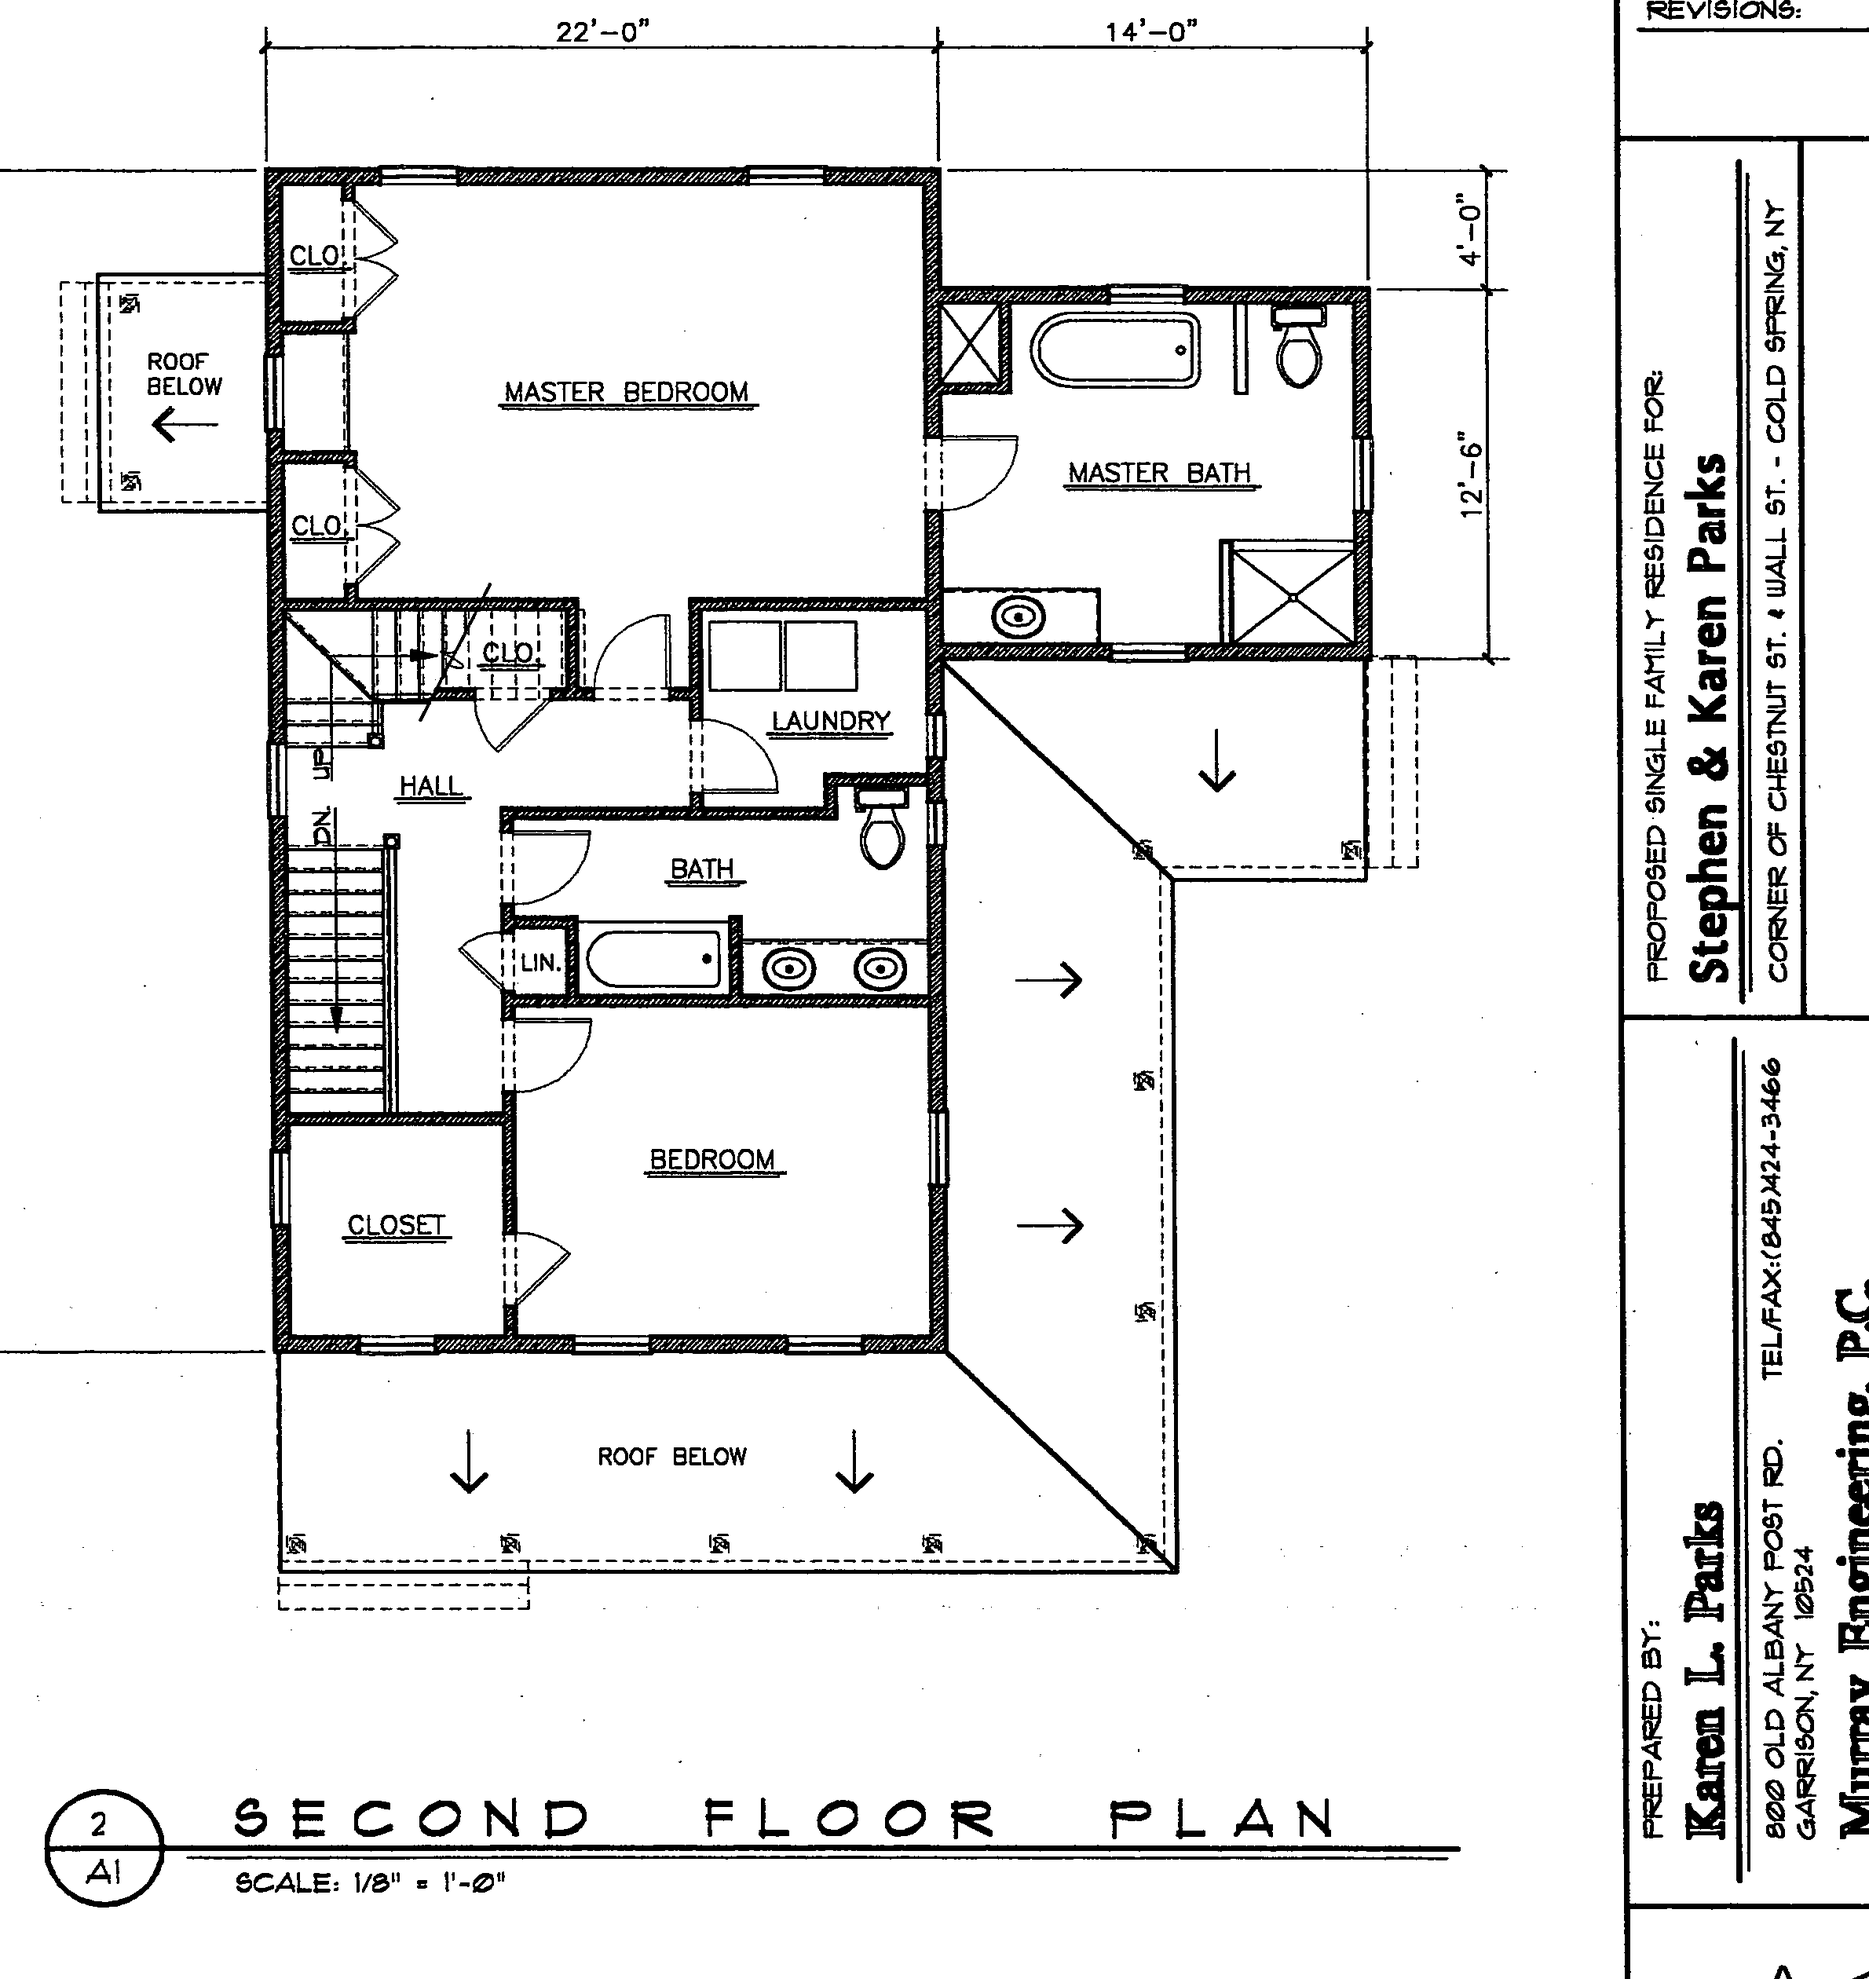
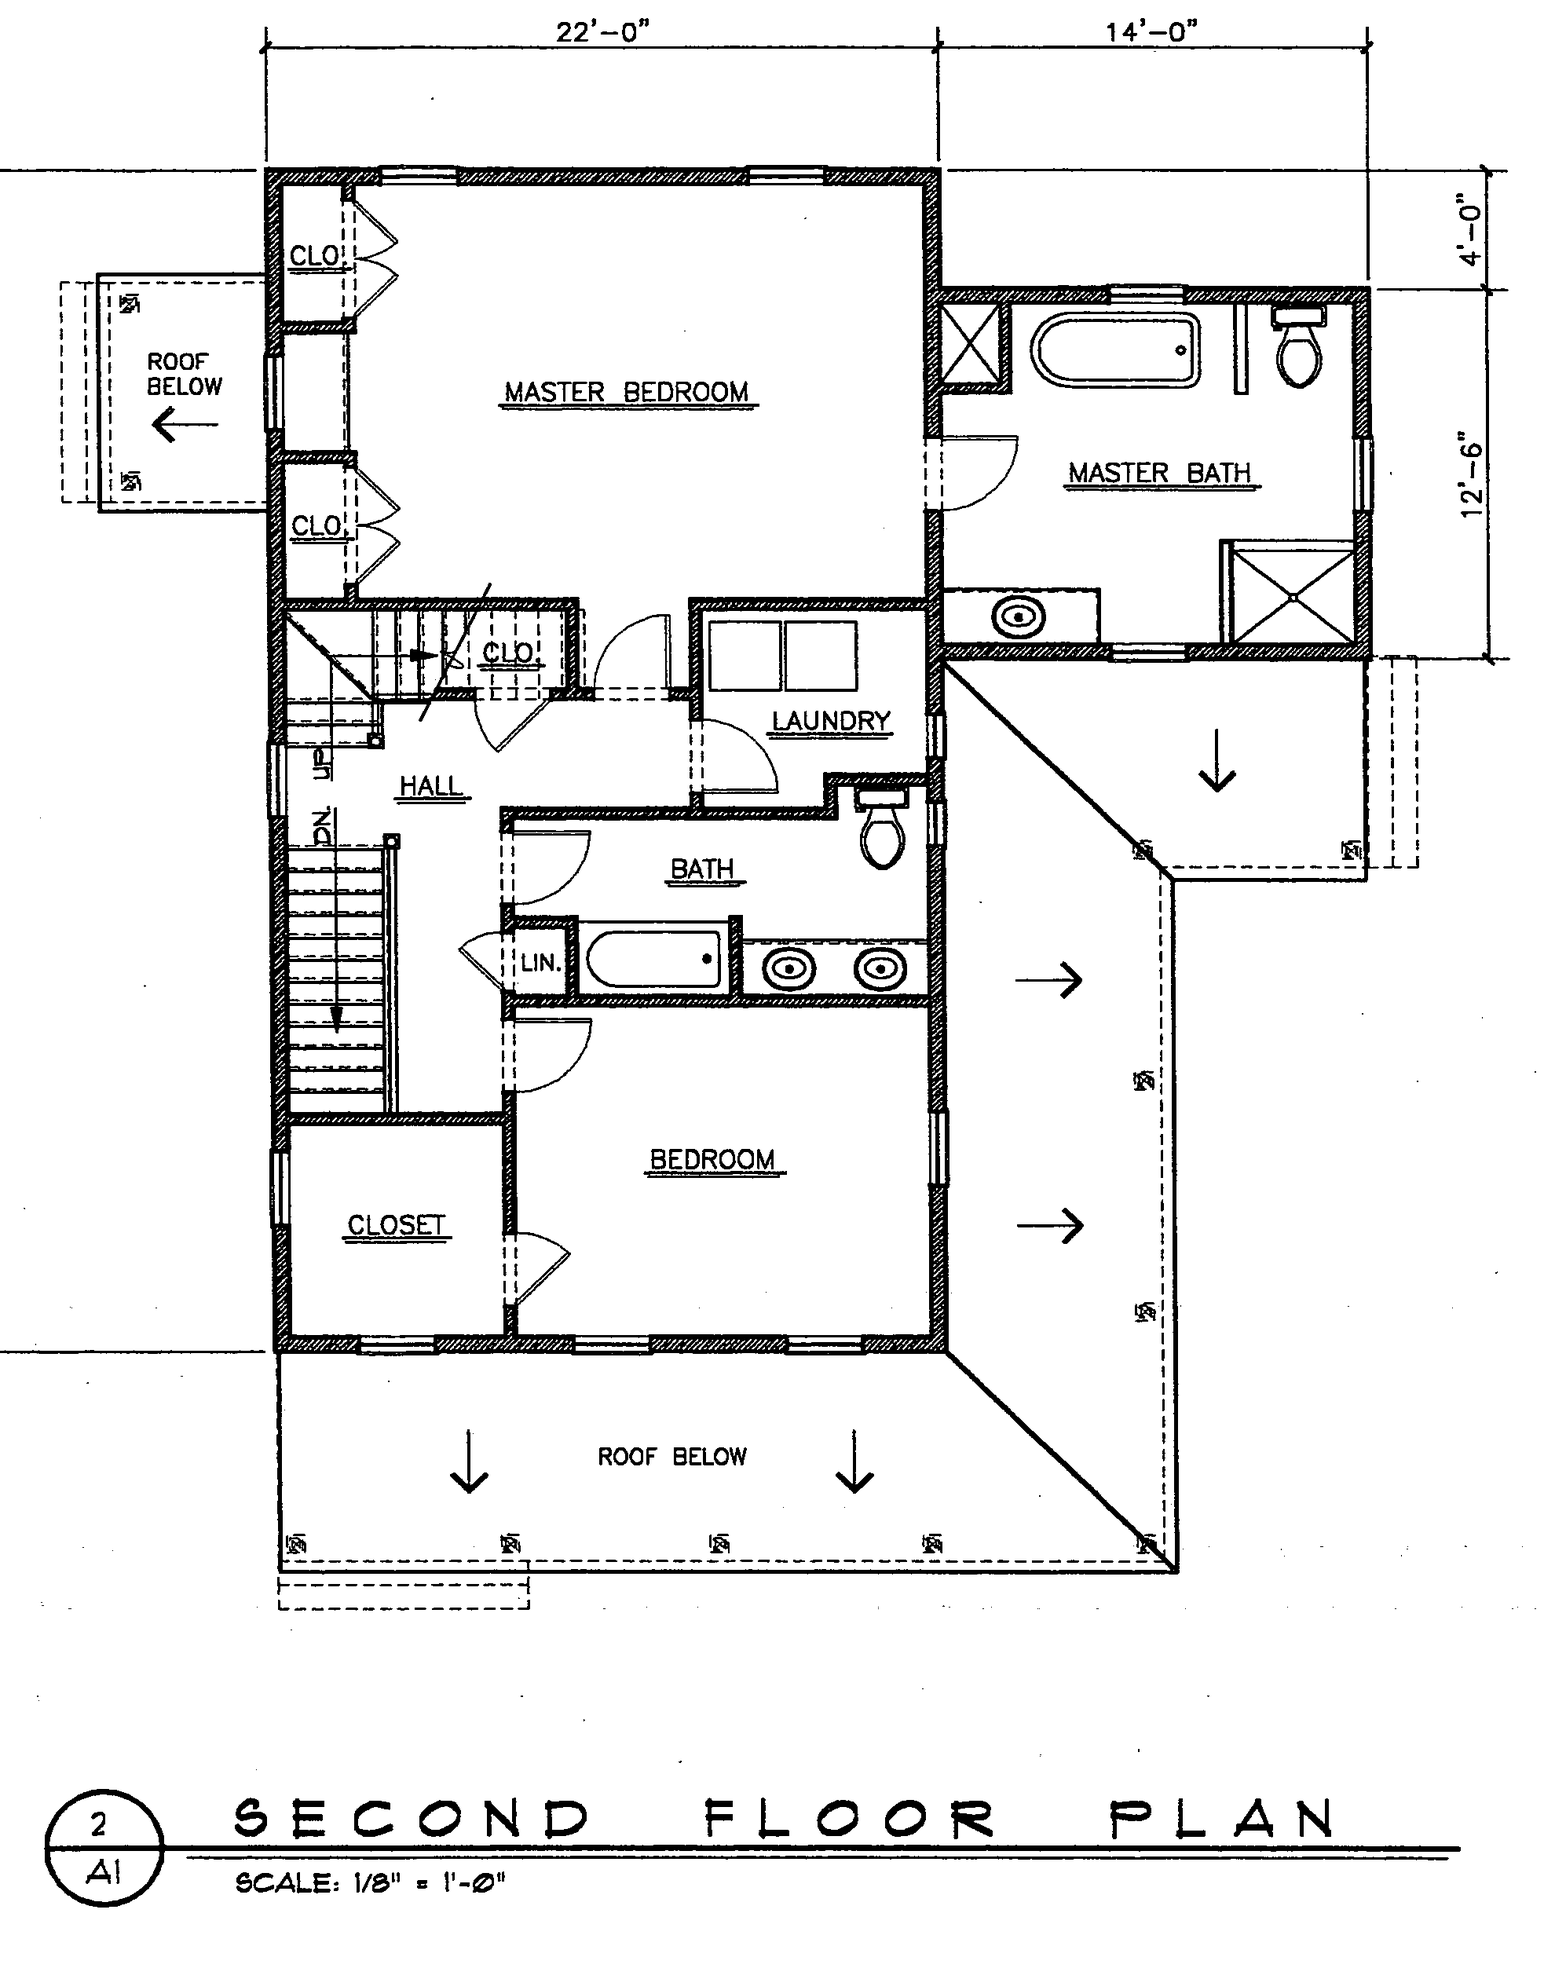
Allow floor-level item placement

diff --git a/src/app/home/layout/page.tsx b/src/app/home/layout/page.tsx
@@ -48,14 +48,15 @@ export default function HomeLayoutPage() {
   }, [floorPlans, rooms]);
 
   const activeFloor = measuredFloors.find(floor => floor.name === activeFloorName) ?? measuredFloors[0];
-  const unplacedItems = items.filter(item => item.roomId === null);
+  const unplacedItems = items.filter(item => item.roomId === null && item.floorPlanId === null);
 
-  const moveItem = async (item: RoomItem, roomId: number | null, planXFt: number, planYFt: number) => {
+  const moveItem = async (item: RoomItem, floorPlanId: number, roomId: number | null, planXFt: number, planYFt: number) => {
     await fetch('/api/room-items', {
       method: 'PATCH',
       headers: { 'Content-Type': 'application/json' },
       body: JSON.stringify({
         id: item.id,
+        floorPlanId: floorPlanId > 0 ? floorPlanId : null,
         roomId,
         planXFt: roundToQuarter(planXFt),
         planYFt: roundToQuarter(planYFt),
@@ -367,11 +368,14 @@ function MeasuredFloorPlan({
   overlayVisible: boolean;
   overlayOpacity: number;
   overlayFit: OverlayFit;
-  onMoveItem: (item: RoomItem, roomId: number | null, planXFt: number, planYFt: number) => void;
+  onMoveItem: (item: RoomItem, floorPlanId: number, roomId: number | null, planXFt: number, planYFt: number) => void;
 }) {
   const floorRooms = rooms.filter(room => floorForRoom(room, floorPlans)?.name === floorPlan.name);
   const roomRects = floorRooms.map(room => ({ room, rect: planRectForRoom(room) }));
-  const floorItems = items.filter(item => item.roomId && floorRooms.some(room => room.id === item.roomId));
+  const floorItems = items.filter(item => {
+    if (item.floorPlanId === floorPlan.id) return true;
+    return item.floorPlanId === null && item.roomId !== null && floorRooms.some(room => room.id === item.roomId);
+  });
   const gridLinesX = gridLines(floorPlan.widthFt);
   const gridLinesY = gridLines(floorPlan.depthFt);
   const overlaySrc = toBlueprintImageSrc(floorPlan.blueprintImagePath);
@@ -405,10 +409,13 @@ function MeasuredFloorPlan({
             if (!item) return;
 
             const bounds = event.currentTarget.getBoundingClientRect();
-            const planXFt = clamp(((event.clientX - bounds.left) / bounds.width) * floorPlan.widthFt, 0, floorPlan.widthFt);
-            const planYFt = clamp(((event.clientY - bounds.top) / bounds.height) * floorPlan.depthFt, 0, floorPlan.depthFt);
+            const footprint = itemFootprint(item);
+            const rawXFt = ((event.clientX - bounds.left) / bounds.width) * floorPlan.widthFt;
+            const rawYFt = ((event.clientY - bounds.top) / bounds.height) * floorPlan.depthFt;
+            const planXFt = clamp(rawXFt, 0, Math.max(0, floorPlan.widthFt - footprint.widthFt));
+            const planYFt = clamp(rawYFt, 0, Math.max(0, floorPlan.depthFt - footprint.depthFt));
             const target = roomRects.find(({ rect }) => containsPoint(rect, planXFt, planYFt));
-            onMoveItem(item, target?.room.id ?? item.roomId ?? null, planXFt, planYFt);
+            onMoveItem(item, floorPlan.id, target?.room.id ?? null, planXFt, planYFt);
           }}
           style={{
             position: 'relative',
@@ -472,13 +479,16 @@ function MeasuredFloorPlan({
           ))}
           {floorItems.map((item, index) => {
             const room = floorRooms.find(entry => entry.id === item.roomId);
-            if (!room) return null;
-            const rect = planRectForRoom(room);
+            const rect = room ? planRectForRoom(room) : null;
             const footprint = itemFootprint(item);
-            const defaultX = rect.x + 1 + (index % 2) * Math.min(footprint.widthFt + 1, Math.max(rect.width / 3, 2));
-            const defaultY = rect.y + 1 + Math.floor(index / 2) * Math.min(footprint.depthFt + 1, Math.max(rect.depth / 4, 2));
-            const x = clamp(item.planXFt ?? defaultX, rect.x, Math.max(rect.x, rect.x + rect.width - footprint.widthFt));
-            const y = clamp(item.planYFt ?? defaultY, rect.y, Math.max(rect.y, rect.y + rect.depth - footprint.depthFt));
+            const defaultX = rect
+              ? rect.x + 1 + (index % 2) * Math.min(footprint.widthFt + 1, Math.max(rect.width / 3, 2))
+              : 2 + (index % 4) * 3;
+            const defaultY = rect
+              ? rect.y + 1 + Math.floor(index / 2) * Math.min(footprint.depthFt + 1, Math.max(rect.depth / 4, 2))
+              : 2 + Math.floor(index / 4) * 3;
+            const x = clamp(item.planXFt ?? defaultX, 0, Math.max(0, floorPlan.widthFt - footprint.widthFt));
+            const y = clamp(item.planYFt ?? defaultY, 0, Math.max(0, floorPlan.depthFt - footprint.depthFt));
             return (
               <PlacedItem
                 key={item.id}
@@ -515,9 +525,10 @@ function RoomZone({ room, rect, floorPlan }: { room: Room; rect: PlanRect; floor
         width: `${(rect.width / floorPlan.widthFt) * 100}%`,
         height: `${(rect.depth / floorPlan.depthFt) * 100}%`,
         border: '2px solid rgba(92,86,72,0.48)',
-        background: 'rgba(255,255,255,0.58)',
+        background: 'rgba(255,255,255,0.14)',
         boxShadow: 'inset 0 0 0 1px rgba(255,255,255,0.72)',
         overflow: 'hidden',
+        pointerEvents: 'none',
         zIndex: 2,
       }}
     >

diff --git a/src/app/api/room-items/route.ts b/src/app/api/room-items/route.ts
@@ -31,6 +31,7 @@ export async function POST(request: Request) {
 
   const insert = {
     room_id: body.roomId || null,
+    floor_plan_id: body.floorPlanId ?? null,
     belonging_id: body.belongingId || null,
     item_name: body.itemName || 'New Item',
     item_source: body.itemSource || 'planned_purchase',
@@ -77,6 +78,7 @@ export async function PATCH(request: Request) {
 
   const update: Record<string, unknown> = {};
   if ('roomId' in rest) update.room_id = rest.roomId;
+  if ('floorPlanId' in rest) update.floor_plan_id = rest.floorPlanId;
   if ('belongingId' in rest) update.belonging_id = rest.belongingId;
   if ('itemName' in rest) update.item_name = rest.itemName;
   if ('itemSource' in rest) update.item_source = rest.itemSource;
@@ -131,6 +133,7 @@ function normalise(row: Record<string, unknown>) {
   return {
     id: row.id,
     roomId: row.room_id ?? row.roomId ?? null,
+    floorPlanId: row.floor_plan_id ?? row.floorPlanId ?? null,
     belongingId: row.belonging_id ?? row.belongingId ?? null,
     itemName: row.item_name ?? row.itemName,
     itemSource: row.item_source ?? row.itemSource ?? 'planned_purchase',
@@ -158,11 +161,12 @@ function nullableNumber(value: unknown) {
 }
 
 function isMissingMeasuredColumnError(error: { code?: string; message?: string }) {
-  return error.code === '42703' || error.code === 'PGRST204' || /width_in|depth_in|height_in|plan_|rotation_deg/i.test(error.message ?? '');
+  return error.code === '42703' || error.code === 'PGRST204' || /floor_plan_id|width_in|depth_in|height_in|plan_|rotation_deg/i.test(error.message ?? '');
 }
 
 function stripMeasuredItemFields(update: Record<string, unknown>) {
   const legacyUpdate = { ...update };
+  delete legacyUpdate.floor_plan_id;
   delete legacyUpdate.width_in;
   delete legacyUpdate.depth_in;
   delete legacyUpdate.height_in;

diff --git a/src/__tests__/hqModel.test.ts b/src/__tests__/hqModel.test.ts
@@ -167,8 +167,8 @@ const rooms: Room[] = [
 ];
 
 const roomItems: RoomItem[] = [
-  { id: 1, roomId: 1, belongingId: 1, itemName: 'Table', itemSource: 'existing_belonging', status: 'placed', dimensions: null, notes: null, layoutX: 1, layoutY: 1, layoutW: 2, layoutH: 2, widthIn: null, depthIn: null, heightIn: null, planXFt: null, planYFt: null, rotationDeg: null, sortIndex: 0 },
-  { id: 2, roomId: null, belongingId: null, itemName: 'Sofa', itemSource: 'planned_purchase', status: 'planned', dimensions: null, notes: null, layoutX: null, layoutY: null, layoutW: null, layoutH: null, widthIn: null, depthIn: null, heightIn: null, planXFt: null, planYFt: null, rotationDeg: null, sortIndex: 1 },
+  { id: 1, roomId: 1, floorPlanId: null, belongingId: 1, itemName: 'Table', itemSource: 'existing_belonging', status: 'placed', dimensions: null, notes: null, layoutX: 1, layoutY: 1, layoutW: 2, layoutH: 2, widthIn: null, depthIn: null, heightIn: null, planXFt: null, planYFt: null, rotationDeg: null, sortIndex: 0 },
+  { id: 2, roomId: null, floorPlanId: null, belongingId: null, itemName: 'Sofa', itemSource: 'planned_purchase', status: 'planned', dimensions: null, notes: null, layoutX: null, layoutY: null, layoutW: null, layoutH: null, widthIn: null, depthIn: null, heightIn: null, planXFt: null, planYFt: null, rotationDeg: null, sortIndex: 1 },
 ];
 
 const projects: HomeProject[] = [

diff --git a/src/__tests__/api/roomItems.test.ts b/src/__tests__/api/roomItems.test.ts
@@ -15,6 +15,7 @@ import { DELETE, GET, PATCH, POST } from '@/app/api/room-items/route';
 const mockRoomItem = {
   id: 7,
   room_id: 1,
+  floor_plan_id: 3,
   belonging_id: 2,
   item_name: 'Sectional Sofa',
   item_source: 'existing_belonging',
@@ -36,6 +37,7 @@ describe('GET /api/room-items', () => {
     const res = await GET(new Request('http://localhost/api/room-items'));
     const body = await res.json();
     expect(body[0].itemName).toBe('Sectional Sofa');
+    expect(body[0].floorPlanId).toBe(3);
   });
 });
 

diff --git a/src/lib/types.ts b/src/lib/types.ts
@@ -185,6 +185,7 @@ export interface Room {
 export interface RoomItem {
   id: number;
   roomId: number | null;
+  floorPlanId: number | null;
   belongingId: number | null;
   itemName: string;
   itemSource: 'existing_belonging' | 'planned_purchase';

diff --git a/README.md b/README.md
@@ -182,6 +182,7 @@ The repo includes the legacy base schema and migration files plus the newer home
 - [supabase-task-blocked-status.sql](supabase-task-blocked-status.sql) — expands move and planning task statuses to include `Blocked`
 - [supabase-measured-layout.sql](supabase-measured-layout.sql) — adds measured floor-plan, room, and room-item layout fields
 - [supabase-blueprint-overlays.sql](supabase-blueprint-overlays.sql) — updates existing measured floor plans to 50x50 canvases and bundled blueprint overlay asset paths
+- [supabase-floor-item-placement.sql](supabase-floor-item-placement.sql) — links room items directly to floor plans so items can be placed anywhere on a measured floor canvas
 - [supabase-rls.sql](supabase-rls.sql) — enables RLS + authenticated-only policies on the app tables
 
 ## Running Locally
@@ -287,11 +288,12 @@ src/
 5. To enable database-level document reuse safeguards and clean up existing duplicate document URLs, run `supabase-document-dedupe.sql` after `supabase-home-planning.sql`.
 6. To allow blocked task tracking, run `supabase-task-blocked-status.sql` after `supabase-home-planning.sql`.
 7. To enable the measured home layout planner and blueprint overlays on an existing database, run `supabase-measured-layout.sql`, then `supabase-blueprint-overlays.sql`.
+8. To allow room items to be placed anywhere on a measured floor canvas, run `supabase-floor-item-placement.sql`.
 
 ## Current Limitations
 
 - Documents are intended as external links, not uploaded private files
-- Room planning and visual layout now support measured floor canvases, bundled blueprint overlays, and draggable item placement, but they are still a simplified planner rather than a full CAD/floorplanner replacement
+- Room planning and visual layout now support measured floor canvases, bundled blueprint overlays, and floor-level draggable item placement, but they are still a simplified planner rather than a full CAD/floorplanner replacement
 - Drive planning does not currently enforce true seat/cargo constraints; it is a flexible planning board rather than a hard validator
 - The app can seed planning structure from organized document sets, but document-derived updates still rely on review logic rather than full OCR / workflow automation
 - Production build verification may require a non-sandboxed environment because Turbopack can fail under sandbox restrictions
